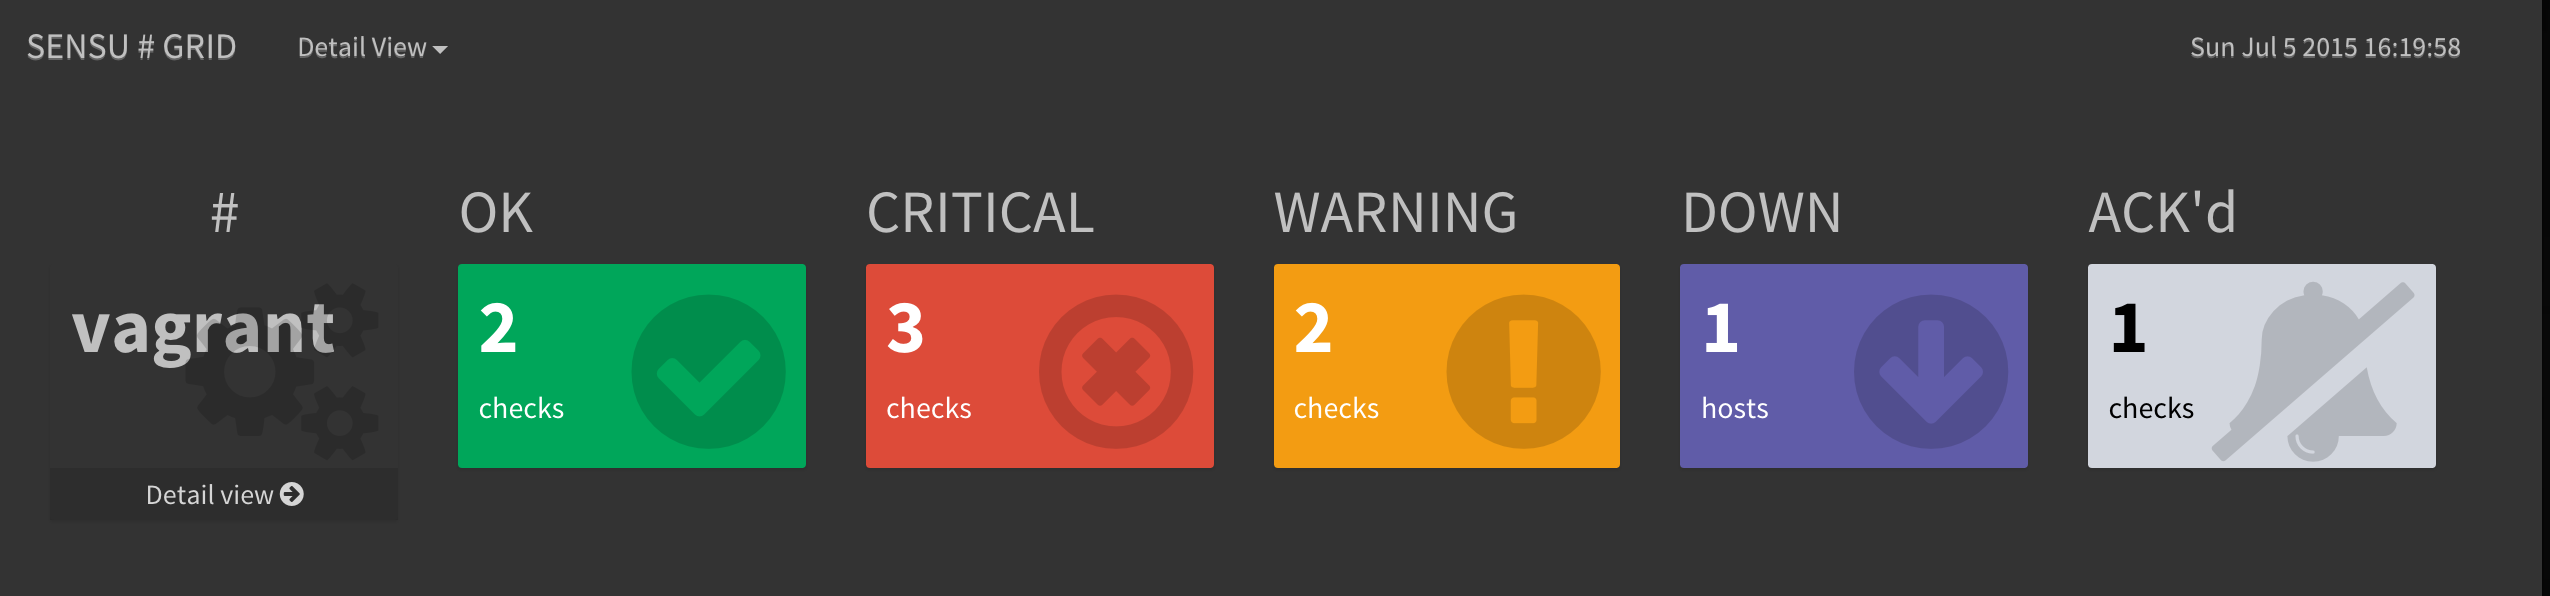
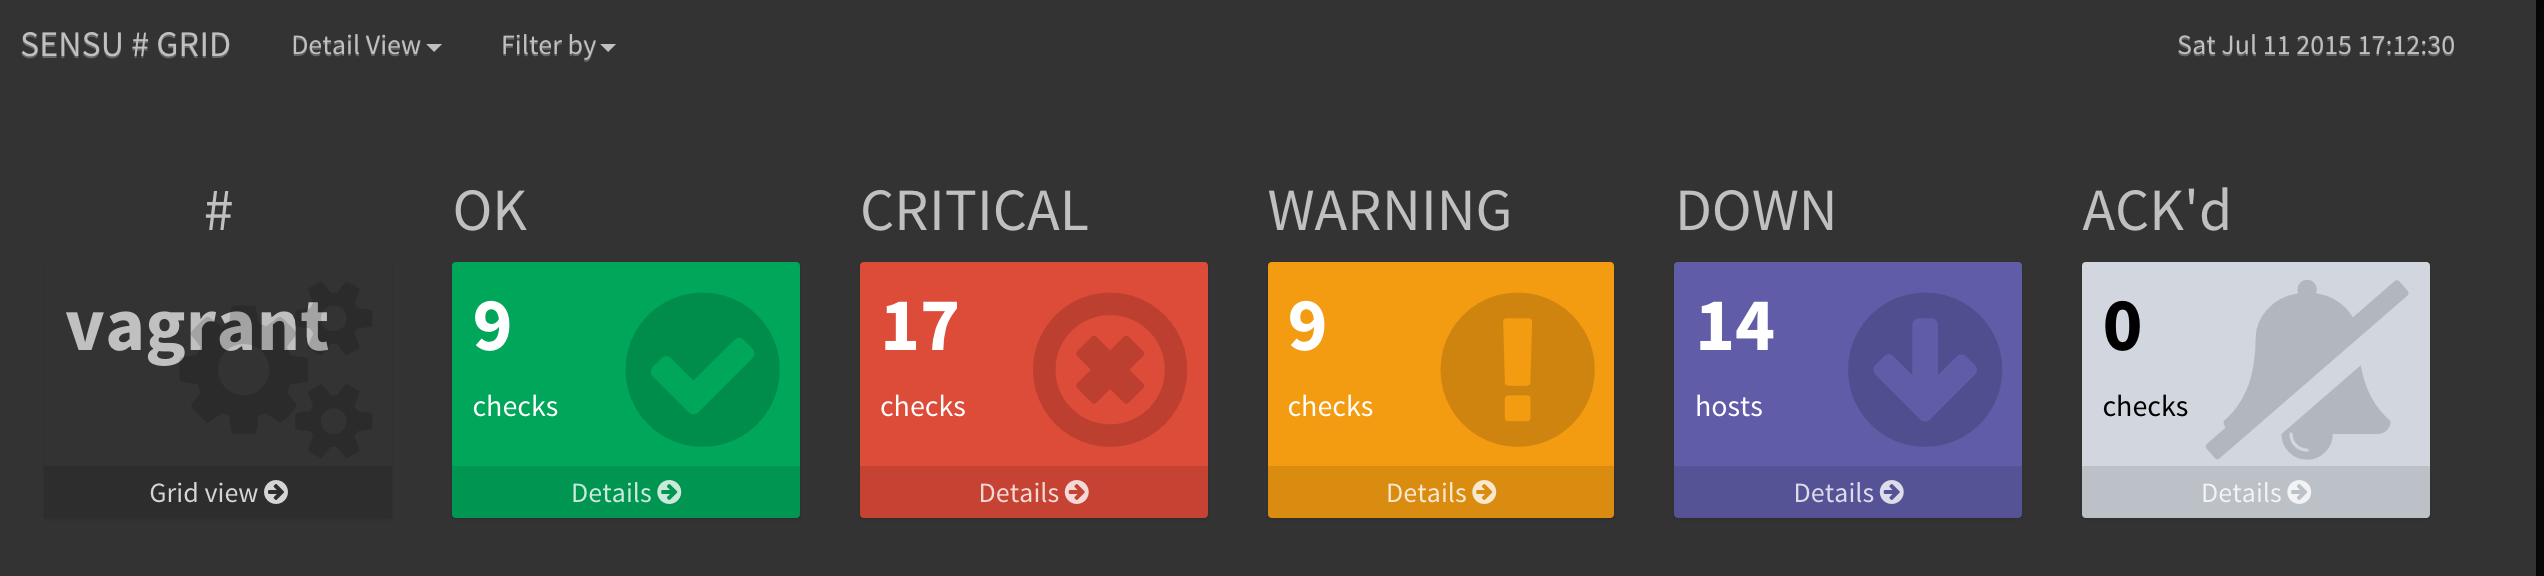
Update readme and screenshot

diff --git a/README.md b/README.md
@@ -2,15 +2,30 @@
 
 Flask application to connect to a list of sensu-api servers and displays a grid of OK, WARNING, CRITICAL, DOWN and ACK'd alerts.
 
+## Features
+
+- overview by data centre ( Name, OK, WARN, CRIT, DOWN, ACK )
+- detail view by data centre ( Grid of hosts, color changes based on amount of alerting checks, 1 = yellow, > 1 = red, down = purple )
+
+- filter by hosts' subscription/s ( Only shows matchin hosts' check results in overview and detail view)
+
 ## screenshots
+
 
 Overview (DCs)
 
 ![sensu-grid overview screenshot](https://raw.githubusercontent.com/alex-leonhardt/sensu-grid/master/screenshots/screenshot_sensu-grid.png)
 
+![sensu-grid apply filter screenshot](https://raw.githubusercontent.com/alex-leonhardt/sensu-grid/master/screenshots/sensu-grid_main_apply_filter.png)
+
+![sensu-grid apply filter screenshot](https://raw.githubusercontent.com/alex-leonhardt/sensu-grid/master/screenshots/sensu-grid_main_to_detail.png)
+
+
 Detail (per DC)
 
-![sensu-grid detail screenshot](https://raw.githubusercontent.com/alex-leonhardt/sensu-grid/master/screenshots/sensu-grid_detail.png)
+![sensu-grid detail screenshot](https://raw.githubusercontent.com/alex-leonhardt/sensu-grid/master/screenshots/sensu-grid_detail_apply_filter.png)
+
+![sensu-grid detail screenshot](https://raw.githubusercontent.com/alex-leonhardt/sensu-grid/master/screenshots/sensu-grid_detail_view_filtered.png)
 
 
 ## install / setup (if you dont want to use docker)
